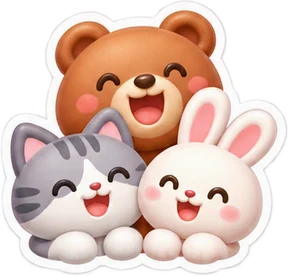
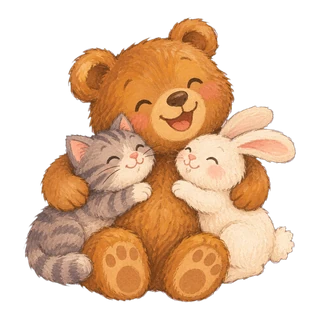
Kid home tiles and the kid bar repainted in the house style (25 pictures)
The nineteen older home tiles and the six kid-bar icons are now the same
hand-painted picture-book style as the adventure map and the game tiles,
under their old file names. No child is drawn in any of them.

Claude-Session: https://claude.ai/code/session_017iRLZKAXGEzdPwAD6BpEkJ

diff --git a/public/sw.js b/public/sw.js
@@ -1,6 +1,6 @@
 // Memory Bookshelf service worker: app shell + all drawn art offline from the first visit; photos cached as you view them
 // (or all at once with "Keep this book offline"). Data (/api) is cached by the app itself (IndexedDB) and written through its queue.
-const V = 'mbs-v198';
+const V = 'mbs-v199';
 const STOCK = 'mbs-stock';   // the stock art library (/stock/, versioned file names): only a stored book's pictures, kept across shell versions too
 const MEDIA = 'mbs-media';   // photos, clips, drawn characters, emoji pictures, drawn book art: kept across shell versions, so a deploy never empties the offline pack
 const SHELL = ['/', '/app.css', '/app-legacy.css', '/core.js', '/views.js', '/sheets.js', '/kid.js', '/manifest.webmanifest', '/icon-192.png',

diff --git a/CLAUDE.md b/CLAUDE.md
@@ -51,8 +51,8 @@ UI screenshots go to `$SHOTS` (default `/tmp/mb-shots`) — look at them after U
 - **Ten levels and the adventure map** (owner, Nov 2026: "ด่านเยอะขึ้น ยากขึ้น", "แผนที่ผจญภัยจะเป็น hilight"): `LV` has ten levels a game (nine for the jigsaw); 1–5 are as before, 6–10 bring a twist (`flip`/`half` shadow, `mem` feed — the wish hides, `kgpal` asks again —, six sort colours, `where` mode `two` = two things from one instruction, `near: 2` odd, four-symbol patterns, counting to 20, a maze `star` off the route that must be picked up, `fast` simon, four more `DOT_SHAPES`, 18 match pairs). **The adventure map** (`#/kid/<kid>/quest`, banner `.kidquest` on the kid home, kid.js `questPlan`/`questHtml`): one town per day of the book walked in order, each = three missions (`QUEST_ORDER` rotates the 13 level games, no repeat in neighbouring towns; the level climbs along the road, 2 → 10, the little one 1 → 5) and a chest that opens once the three are played (the town's secret = one of the day's `passport.days[i].facts`, a `QUEST_GEM` sticker, three stars; trophies `quest1`/`questall`). A mission sets `quest = {tid, kid, town, slot, game, lv}`: `lvState` then answers the road's level, `lvSet` writes nothing (the child's own levels never move), `lvDone` marks the mission, `lvBar` shows the town, `lvWin` offers "back to the map"; any other page clears it (`questReset` drops half-played boards). Progress = ticks `quest.d<i>.<0|1|2|chest>` with day null (never a memory of a day), so it syncs between devices and is in backups; a relative's play stays in `questMem` (nothing saved). Towns ahead wait in clouds — never a lock, never `0/3`. **Depth**: a boss (`questBoss`, slot 3: one of the town's games a level up; shown once the three are played, the chest waits for it); a hidden mission in every second town (`questBonus`, slot `x`: a creature `.qhid` on the town's card, a game the town does not have, a level easier, never needed for the chest); a mission left unfinished twice comes back a level easier (`questEase`, `ls('qease_<kid>')`, this device only); three wrong taps in a round make the right answer glow in every pick game (`kgNope` → `.hint`, `kgRight`); the treasure picture `questPic` (the passport crest in as many pieces as towns, a chest uncovers one; shown once there is a piece). **The walk** (`questnext`): after a chest the child still stands in that town (`questNew` holds the map there); "on to the next town" hops a fixed copy of the character `.qwalk` along the road by the Web Animations API in px (five hops, a tap sound each), then the town opens, its cloud floats off (`.qcloud.lift`) and the guide says where we are; under reduced motion the town simply opens. A town card and a mission's page wear the town's own colours (`passport.days[i].acc/tint`; the kid header shows "เมืองที่ n" with the town's picture); the guide opens the story on a fresh road ("… ทำสมบัติหล่นตามทาง"). test/ui.mjs session `quest-ipad` runs it on 834×1112 and 1112×834 with the Australia book and motion on (`session(…, {motion: true})`). **A mission is made of its town** (`questThings(t, i)` = the day's `passport.days[i].spot`, `questAnimals` = `info.wild`, `questFoods` = `passport.food` + the lists flagged `yum`/`stars`, `questPhotos` = the family's photos of that day; all `[emoji, th, en]` with the English article dropped by `qEn`): on a mission the shadows, big-and-small, counting, patterns and the maze (one of the trip's animals looks for one of the town's things) lead with them (`qLead`), feed serves the book's foods when it has three or more, match leads with the town's photos, picture and things, the jigsaw is a photo of that day when there is one, else the town's picture (no picture switch on a mission); where / odd / colours / tune / dots stay generic. **The parents' line** (`questLine(t)` on the book's menu, only for a child who has set off: "มีมี่ อยู่เมืองที่ 4 … สมบัติ 3 ชิ้น"; editors get `questreset`, two taps: the book's quest ticks and that child's easing go).
 - **The kid map tells its places** (owner, Nov 2026: "ไม่ค่อยมีประโยชน์หรือสาระเลย ทำให้มันใช้ได้จริงหน่อย"; kid.js `mapCard(t, kid, day, at)` under `mapHtml` on `#/kid/<kid>/map`): the stop the children stand on shows its day in a card `#mapcard` — up to six of the plan's own headlines `h` (emoji + words, never a clock time; action `mapsay` reads the line aloud), the day's things to find (`daySpots`, ⭐ on the ticked ones), one fact, the family's photos of that day (→ the photo viewer on that day), "the same day we also go to …", a button to that town on the adventure map (`mapquest`; a town not reached opens the road where the child stands) and, on the day itself, "go and find them". `‹ ›` (`mapstep`) walk the journey one stop at a time (the walkers move, the card follows). The guide's line names the place and when ("วันที่ 5 เราจะไป…" / "วันนี้เราอยู่ที่…" / "เราไป…มาแล้ว").
 - **Kid mode follows the real trip** (owner, Nov 2026: "ในเล่มของเด็กลิ้งค์กับทริปจริงได้อีกไหม"; kid.js): (1) **by the clock** — on a trip day the kid home carries one slim banner `.kidnow` ("ตอนนี้ …" / "เดี๋ยวเราจะ …": `kidNowOf(t, i)` = the plan's timeline rows with a time and a headline, compared with `minsIn(row.tz || t.timezone)`; never while the surprise-box or stamp-before-bed banner shows — one banner at a time, and with it the hello steps aside and the adventure banner goes slim so the tiles stay ≥ 120 px) opening **my day** `#/kid/<kid>/day` (`kidDayHtml`: every step as a picture row — done ✓, now, next — the sleeps until home `sleepsLine`, a tap reads a step; the header shows today, not the picked day; no clock time on a kid page); (2) **the places we really went** — `mapReal(t, mm)`: a place the parents check in on the record page (`S.places`) marks the map stop of that day whose name fits it (`.pin.real` + a green ✓ flag; when no check-in of the day names a stop, every stop of that day), adds a sticker `been.<stop>` and a "เราไปมาแล้ว" list to the map's card. Nothing new is stored. **After a win** (owner, Nov 2026: the buttons hid under the bar on a Samsung S26 Ultra; "ค้างไว้ 5 วินาที แล้วออกอัตโนมัติ"): `lvWin` wraps its buttons in `.lvwin`, `winShow` scrolls them above the kid bar 1.5 s after the win, and a won mission goes back to the adventure map by itself five seconds later (`.lvwin.qauto`, a thin bar `.qbar5` runs on the button; "play again" cancels it). **Start the road again from the map**: `#qreset` at the foot of the adventure map (editors, once the road has begun) — press and hold 1.5 s like the star jar, a tap does nothing (`questWipe`, shared with the menu's two-tap `questreset`).
-- **The adventure map's own pictures** (owner, Nov 2026: an emoji looks different on every phone — the chest was a toolbox on a Samsung; "สไตล์ให้เหมาะสมกับเด็กกลางๆ เห็นแล้วเข้าใจ"): `public/art/quest/*.webp` (14 pictures, 320 px, transparent, in `sw.js` `ART`): chest, chest-open, cloud, crown (the boss), map, trophy and eight treasures in turn (`QUEST_ART`: diamond, key, coin, ruby, shell, emerald, compass, star; `QUEST_GEM` keeps the matching emoji for confetti). Drawn with the owner's Higgsfield account and cut out here. **The house style is a hand-painted picture book** (owner, Nov 2026: "ทำให้ไม่เหมือนกับรูปทั่วไป … เอาให้เด่นกว่า" — of four samples they chose gouache and coloured pencil: visible brush strokes and paper grain, slightly wobbly outlines, a warm palette with teal; the first glossy 3D versions were replaced): one clear subject, gender-neutral, painted on a flat pale lilac background the subjects never use, so the cut-out is a flood-fill from the border plus the enclosed lilac holes (a cup's handles); `qImg(name)` → `<img class="qi">`, sized by its box in app.css. New pictures for kid mode follow this recipe; the owner approves a sample first and the credits are theirs. **Set 2** (owner: "ทำข้อ 1"): the fourteen game tiles that were still emoji (shadow, feed, sort, farm, wash, bigsmall, maze, where, odd, next, simon, dots, howmany, cake) are `public/art/kidui/<game>.webp` named in `KTILE`; the adventure map's mission buttons and the boss show the same picture (`KTILE[game][0]`), so no kid home tile and no mission is an emoji any more.
-- Kid mode polish: `.kidwrap.enter` (from `kidEnter`, only when the view changed) slides the page in and hops the home tiles in one by one; tile emoji float (`bob`); `beep('hello')` on `kidpick`. The plane toys' tiles (I spy, bubbles, music, jigsaw) carry the owner's icons `/art/kidui/spy|bubbles|music|jigsaw.webp` (rounded stickers cut from the owner's 2×2 sheet, Nov 2026; the tile gradient matches each icon). All of it under `prefers-reduced-motion: no-preference` only (the tests ask for reduced motion, so measurements stay stable).
+- **The adventure map's own pictures** (owner, Nov 2026: an emoji looks different on every phone — the chest was a toolbox on a Samsung; "สไตล์ให้เหมาะสมกับเด็กกลางๆ เห็นแล้วเข้าใจ"): `public/art/quest/*.webp` (14 pictures, 320 px, transparent, in `sw.js` `ART`): chest, chest-open, cloud, crown (the boss), map, trophy and eight treasures in turn (`QUEST_ART`: diamond, key, coin, ruby, shell, emerald, compass, star; `QUEST_GEM` keeps the matching emoji for confetti). Drawn with the owner's Higgsfield account and cut out here. **The house style is a hand-painted picture book** (owner, Nov 2026: "ทำให้ไม่เหมือนกับรูปทั่วไป … เอาให้เด่นกว่า" — of four samples they chose gouache and coloured pencil: visible brush strokes and paper grain, slightly wobbly outlines, a warm palette with teal; the first glossy 3D versions were replaced): one clear subject, gender-neutral, painted on a flat pale lilac background the subjects never use, so the cut-out is a flood-fill from the border plus the enclosed lilac holes (a cup's handles); `qImg(name)` → `<img class="qi">`, sized by its box in app.css. New pictures for kid mode follow this recipe; the owner approves a sample first and the credits are theirs. **Set 2** (owner: "ทำข้อ 1"): the fourteen game tiles that were still emoji (shadow, feed, sort, farm, wash, bigsmall, maze, where, odd, next, simon, dots, howmany, cake) are `public/art/kidui/<game>.webp` named in `KTILE`; the adventure map's mission buttons and the boss show the same picture (`KTILE[game][0]`), so no kid home tile and no mission is an emoji any more. **Set 3** (owner: "เยี่ยม เอาเลย"): the nineteen older home tiles and the six kid-bar icons were repainted in the same hand-painted style under their old file names (bar-colour is the colour tile's palette), so everything under `public/art/kidui` and `public/art/quest` is one style; no child is drawn in any of them (animals and objects only).
+- Kid mode polish: `.kidwrap.enter` (from `kidEnter`, only when the view changed) slides the page in and hops the home tiles in one by one; tile emoji float (`bob`); `beep('hello')` on `kidpick`. The plane toys' tiles (I spy, bubbles, music, jigsaw) carry the owner's icons `/art/kidui/spy|bubbles|music|jigsaw.webp` (first rounded stickers cut from the owner's 2×2 sheet, repainted as cut-outs in the house style, Nov 2026). All of it under `prefers-reduced-motion: no-preference` only (the tests ask for reduced motion, so measurements stay stable).
 - Kid home tiles never repeat the kid bar (map, stickers, trophies live only on `.kidbar`); counting (`newCount(t, kid)`) draws mostly today's mission emojis (`daySpots`), then the trip's animals and friends.
 - Kid mode on a trip day (`dayNow(t) === i`): a morning **surprise box** banner (`.kidgift` → view `gift`, action `kidgift` → tick `gift.d<i>`, a sticker of its own `giftE(i)` in `stickerSet`, then today's `daySpots` and a go-find button) until opened; from 17:00 trip time (core.js `hourIn`) a **stamp before bed** banner (`.kidnight` → the `stamp` view, which says "ปั๊ก!") until `stamp.d<i>` is ticked.
 - Passport missions are `<details class="mfold">`: during the trip (`dayNow(t) >= 0`) only today's is open (`.mission.today`); before the trip only the day picked on the `.mdays` chips (`mdayPick[trip]`, action `mday`, day 1 to start; owner's review, Nov 2026); after, all open.
